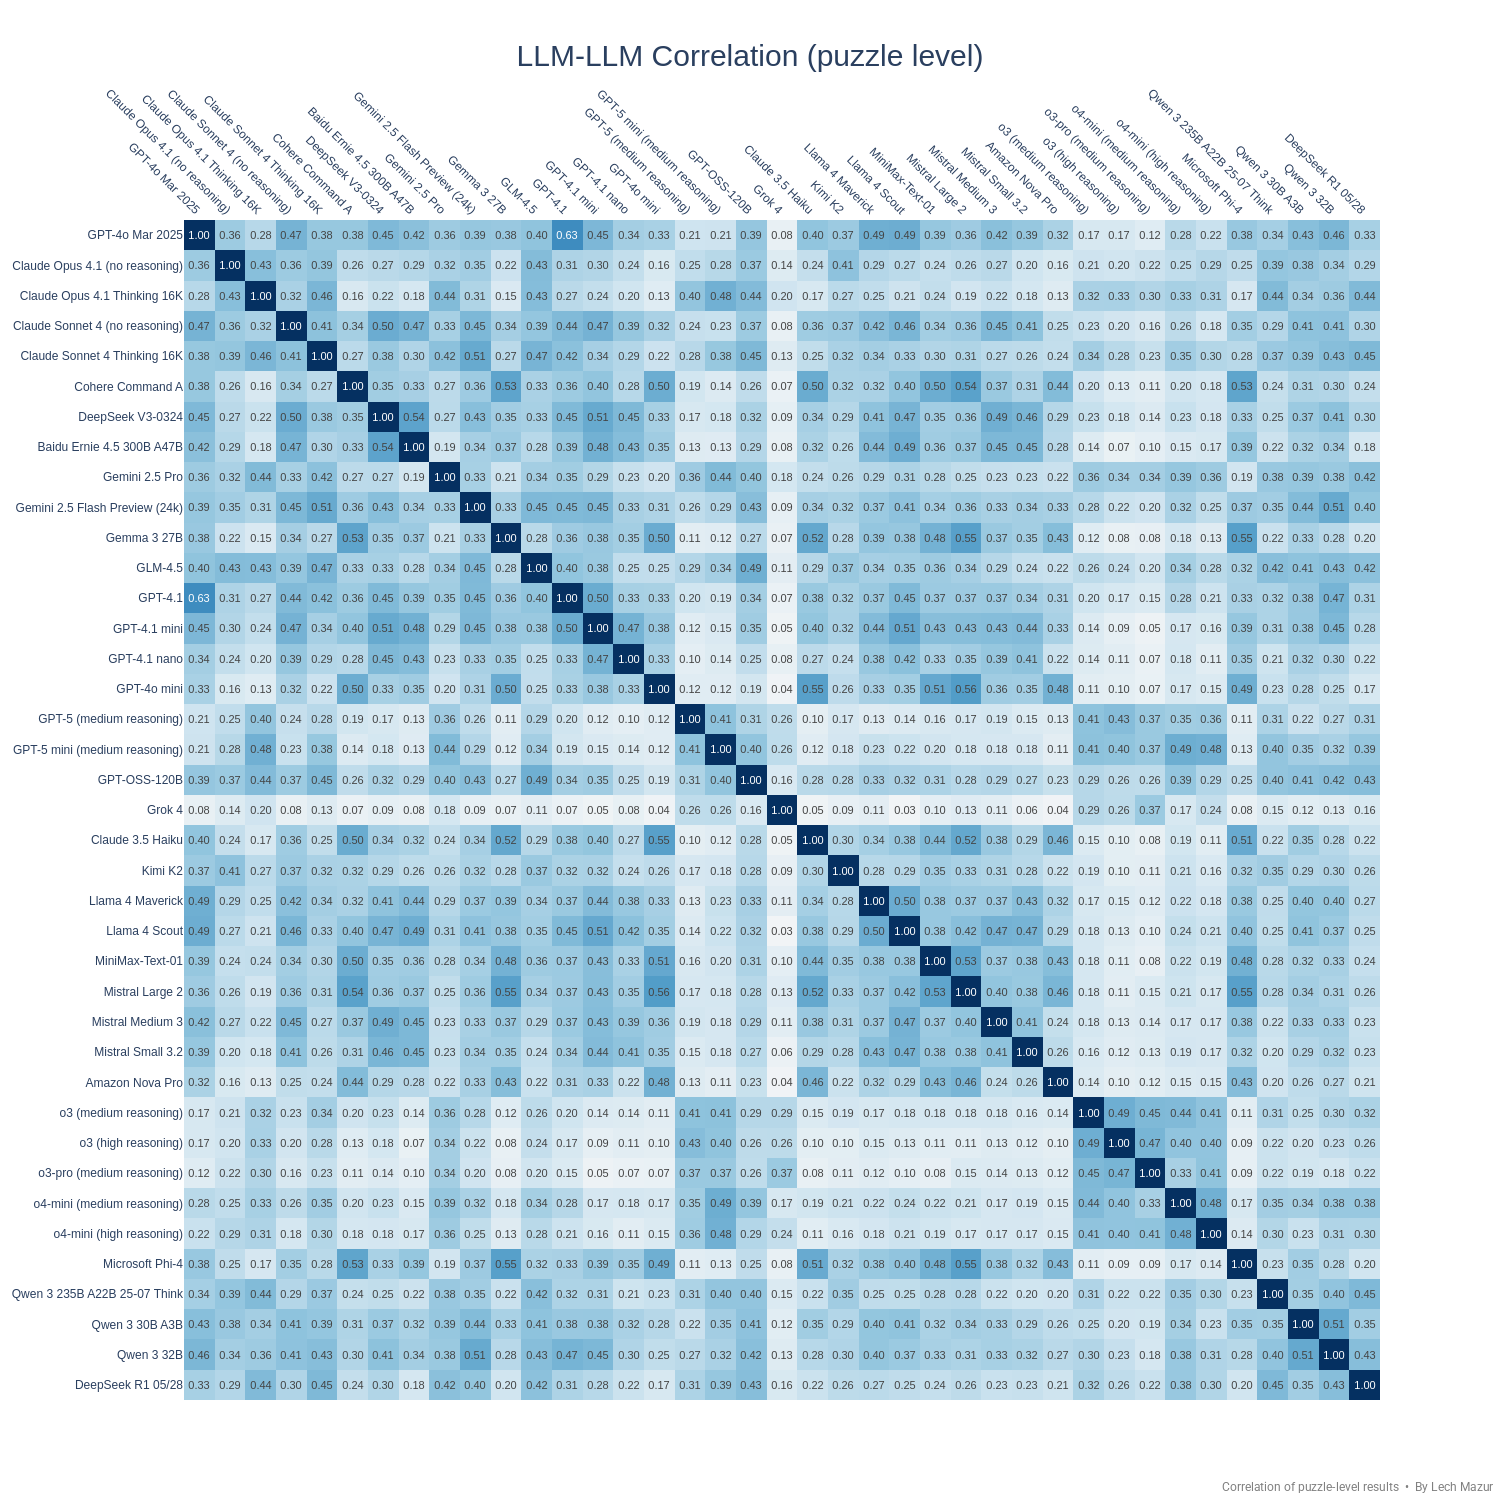
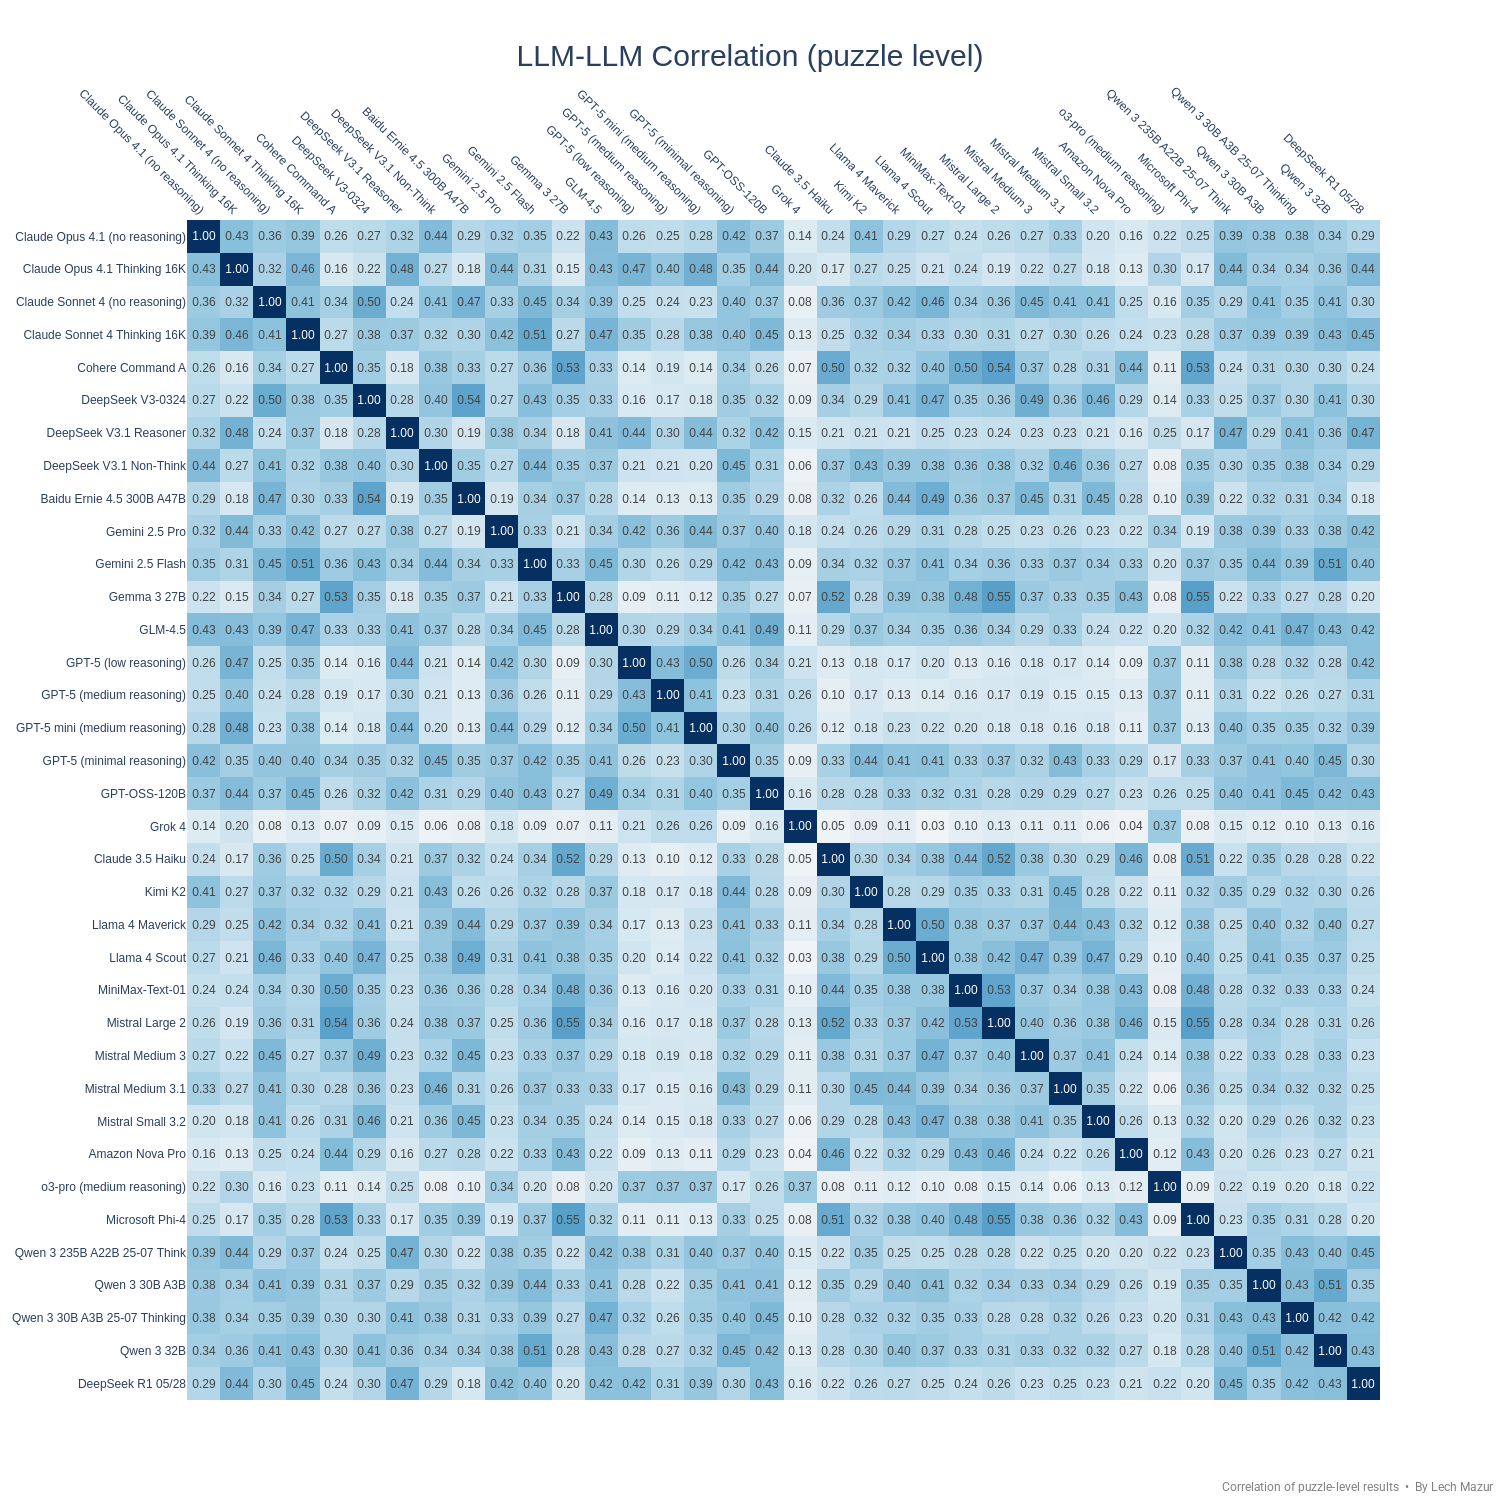
DeepSeek 3.1, Qwen 3 30B A3B 25-07, Mistral Medium 3.1, GPT-5 minimal and low reasoning

diff --git a/README.md b/README.md
@@ -22,76 +22,82 @@ As of Feb 4, 2025, there is a new version of the benchmark. The standard NYT Con
 |8|o1 (medium reasoning)|70.8|651|
 |9|o4-mini (medium reasoning)|68.8|651|
 |10|GPT-5 mini (medium reasoning)|66.9|759|
-|11|o3-mini (high reasoning)|61.4|651|
-|12|Claude Opus 4.1 Thinking 16K|58.8|759|
-|13|Gemini 2.5 Pro|57.6|759|
-|14|Qwen 3 235B A22B|54.3|759|
-|15|Gemini 2.5 Pro Exp 03-25|54.1|651|
-|16|o3-mini (medium reasoning)|53.6|651|
-|17|Claude Opus 4 Thinking 16K|49.7|759|
-|18|DeepSeek R1 05/28|48.6|759|
-|19|Qwen 3 235B A22B 25-07 Think|46.2|759|
-|20|Gemini 2.5 Pro Preview 05-06|42.5|651|
-|21|Claude Sonnet 4 Thinking 16K|40.3|759|
-|22|Claude Sonnet 4 Thinking 64K|39.6|651|
-|23|GPT-OSS-120B|38.7|759|
-|24|DeepSeek R1|38.6|651|
-|25|Claude Opus 4.1 (no reasoning)|37.1|759|
-|26|Qwen 3 30B A3B|36.6|759|
-|27|Qwen 3 32B|35.8|759|
-|28|Claude Opus 4 (no reasoning)|34.4|759|
-|29|GPT-4.5 Preview|34.2|651|
-|30|Claude 3.7 Sonnet Thinking 16K|33.6|651|
-|31|Qwen QwQ-32B 16K|31.4|651|
-|32|Grok 3 Mini Beta (high)|30.2|759|
-|33|GLM-4.5|30.2|759|
-|34|o1-mini|26.9|651|
-|35|Claude Sonnet 4 (no reasoning)|26.6|759|
-|36|Grok 3 Mini Beta (low)|26.0|651|
-|37|Quasar Alpha|25.4|651|
-|38|Gemini 2.5 Flash Preview (24k)|25.2|759|
-|39|GPT-4o Mar 2025|24.5|759|
-|40|Gemini 2.0 Flash Think Exp 01-21|23.1|649|
-|41|GPT-4.1|22.8|759|
-|42|GPT-4o Feb 2025|22.7|651|
-|43|Gemini 2.0 Pro Exp 02-05|21.7|651|
-|44|MiniMax-M1|21.3|688|
-|45|Kimi K2|19.8|759|
-|46|Grok 3 Beta (no reasoning)|19.7|759|
-|47|Grok 2 12-12|19.2|651|
-|48|Gemini 1.5 Pro (Sept)|19.2|601|
-|49|Claude 3 Opus|19.2|650|
-|50|Claude 3.7 Sonnet|19.2|651|
-|51|Gemini 2.0 Flash|18.8|651|
-|52|GPT-4o 2024-11-20|18.7|601|
-|53|Llama 4 Maverick|18.5|759|
-|54|Qwen 2.5 Max|18.0|651|
-|55|GPT-4o 2024-08-06|17.8|601|
-|56|Claude 3.5 Sonnet 2024-10-22|17.7|651|
-|57|Llama 4 Scout|17.4|759|
-|58|DeepSeek V3-0324|16.8|759|
-|59|Llama 3.1 405B|16.2|651|
-|60|DeepSeek V3|15.1|651|
-|61|Llama 3.3 70B|15.1|651|
-|62|Baidu Ernie 4.5 300B A47B|14.8|759|
-|63|GPT-4.1 mini|14.4|759|
-|64|MiniMax-Text-01|13.8|759|
-|65|Cohere Command A|13.1|759|
-|66|Mistral Large 2|12.4|759|
-|67|Gemma 2 27B|12.2|651|
-|68|Gemma 3 27B|11.6|759|
-|69|Mistral Medium 3|11.5|759|
-|70|Mistral Small 3.1|11.4|651|
-|71|Mistral Small 3.2|11.2|759|
-|72|Qwen 2.5 72B|10.5|759|
-|73|Claude 3.5 Haiku|10.0|759|
-|74|Amazon Nova Pro|9.9|759|
-|75|Microsoft Phi-4|9.9|759|
-|76|GPT-4o mini|9.7|759|
-|77|Mistral Small 3|8.9|601|
-|78|GPT-4.1 nano|8.1|759|
-|79|GLM4-32B-0414|7.6|759|
-|80|Claude 3 Haiku|2.2|601|
+|11|GPT-5 (low reasoning)|65.4|759|
+|12|o3-mini (high reasoning)|61.4|651|
+|13|Claude Opus 4.1 Thinking 16K|58.8|759|
+|14|DeepSeek V3.1 Reasoner|57.7|759|
+|15|Gemini 2.5 Pro|57.6|759|
+|16|Qwen 3 235B A22B|54.3|759|
+|17|Gemini 2.5 Pro Exp 03-25|54.1|651|
+|18|o3-mini (medium reasoning)|53.6|651|
+|19|Claude Opus 4 Thinking 16K|49.7|759|
+|20|DeepSeek R1 05/28|48.6|759|
+|21|Qwen 3 235B A22B 25-07 Think|46.2|759|
+|22|Gemini 2.5 Pro Preview 05-06|42.5|651|
+|23|Claude Sonnet 4 Thinking 16K|40.3|759|
+|24|Claude Sonnet 4 Thinking 64K|39.6|651|
+|25|GPT-OSS-120B|38.7|759|
+|26|DeepSeek R1|38.6|651|
+|27|Claude Opus 4.1 (no reasoning)|37.1|759|
+|28|Qwen 3 30B A3B|36.6|759|
+|29|Qwen 3 32B|35.8|759|
+|30|Qwen 3 30B A3B 25-07 Thinking|35.5|759|
+|31|Claude Opus 4 (no reasoning)|34.4|759|
+|32|GPT-4.5 Preview|34.2|651|
+|33|Claude 3.7 Sonnet Thinking 16K|33.6|651|
+|34|Qwen QwQ-32B 16K|31.4|651|
+|35|Grok 3 Mini Beta (high)|30.2|759|
+|36|GLM-4.5|30.2|759|
+|37|GPT-5 (minimal reasoning)|27.3|759|
+|38|o1-mini|26.9|651|
+|39|Claude Sonnet 4 (no reasoning)|26.6|759|
+|40|Grok 3 Mini Beta (low)|26.0|651|
+|41|Quasar Alpha|25.4|651|
+|42|Gemini 2.5 Flash|25.2|759|
+|43|GPT-4o Mar 2025|24.5|759|
+|44|Gemini 2.0 Flash Think Exp 01-21|23.1|649|
+|45|GPT-4.1|22.8|759|
+|46|GPT-4o Feb 2025|22.7|651|
+|47|Gemini 2.0 Pro Exp 02-05|21.7|651|
+|48|DeepSeek V3.1 Non-Think|21.6|759|
+|49|MiniMax-M1|21.3|688|
+|50|Kimi K2|19.8|759|
+|51|Grok 3 Beta (no reasoning)|19.7|759|
+|52|Grok 2 12-12|19.2|651|
+|53|Gemini 1.5 Pro (Sept)|19.2|601|
+|54|Claude 3 Opus|19.2|650|
+|55|Claude 3.7 Sonnet|19.2|651|
+|56|Gemini 2.0 Flash|18.8|651|
+|57|GPT-4o 2024-11-20|18.7|601|
+|58|Llama 4 Maverick|18.5|759|
+|59|Qwen 2.5 Max|18.0|651|
+|60|GPT-4o 2024-08-06|17.8|601|
+|61|Claude 3.5 Sonnet 2024-10-22|17.7|651|
+|62|Llama 4 Scout|17.4|759|
+|63|DeepSeek V3-0324|16.8|759|
+|64|Llama 3.1 405B|16.2|651|
+|65|Mistral Medium 3.1|15.2|759|
+|66|DeepSeek V3|15.1|651|
+|67|Llama 3.3 70B|15.1|651|
+|68|Baidu Ernie 4.5 300B A47B|14.8|759|
+|69|GPT-4.1 mini|14.4|759|
+|70|MiniMax-Text-01|13.8|759|
+|71|Cohere Command A|13.1|759|
+|72|Mistral Large 2|12.4|759|
+|73|Gemma 2 27B|12.2|651|
+|74|Gemma 3 27B|11.6|759|
+|75|Mistral Medium 3|11.5|759|
+|76|Mistral Small 3.1|11.4|651|
+|77|Mistral Small 3.2|11.2|759|
+|78|Qwen 2.5 72B|10.5|759|
+|79|Claude 3.5 Haiku|10.0|759|
+|80|Amazon Nova Pro|9.9|759|
+|81|Microsoft Phi-4|9.9|759|
+|82|GPT-4o mini|9.7|759|
+|83|Mistral Small 3|8.9|601|
+|84|GPT-4.1 nano|8.1|759|
+|85|GLM4-32B-0414|7.6|759|
+|86|Claude 3 Haiku|2.2|601|
 
 
 ---
@@ -181,6 +187,7 @@ This benchmark evaluates large language models (LLMs) using 436 NYT Connections 
 ---
 
 ## Other multi-agent benchmarks
+- [PACT - Benchmarking LLM negotiation skill in multi-round buyer-seller bargaining](https://github.com/lechmazur/pact)
 - [BAZAAR - Evaluating LLMs in Economic Decision-Making within a Competitive Simulated Market](https://github.com/lechmazur/bazaar)
 - [Public Goods Game (PGG) Benchmark: Contribute & Punish](https://github.com/lechmazur/pgg_bench/)
 - [Elimination Game: Social Reasoning and Deception in Multi-Agent LLMs](https://github.com/lechmazur/elimination_game/)
@@ -196,6 +203,7 @@ This benchmark evaluates large language models (LLMs) using 436 NYT Connections 
 ---
 
 ## Updates
+- Aug 22, 2025: DeepSeek 3.1, Qwen 3 30B A3B 25-07, Mistral Medium 3.1, GPT-5 minimal and low reasoning added.
 - Aug 7, 2025: GPT-5 added.
 - Aug 5, 2025: Claude Opus 4.1, GPT-OSS-120B added.
 - July 28, 2025: GLM-4.5, Qwen 3 235B A22B 25-07 Thinking added.
